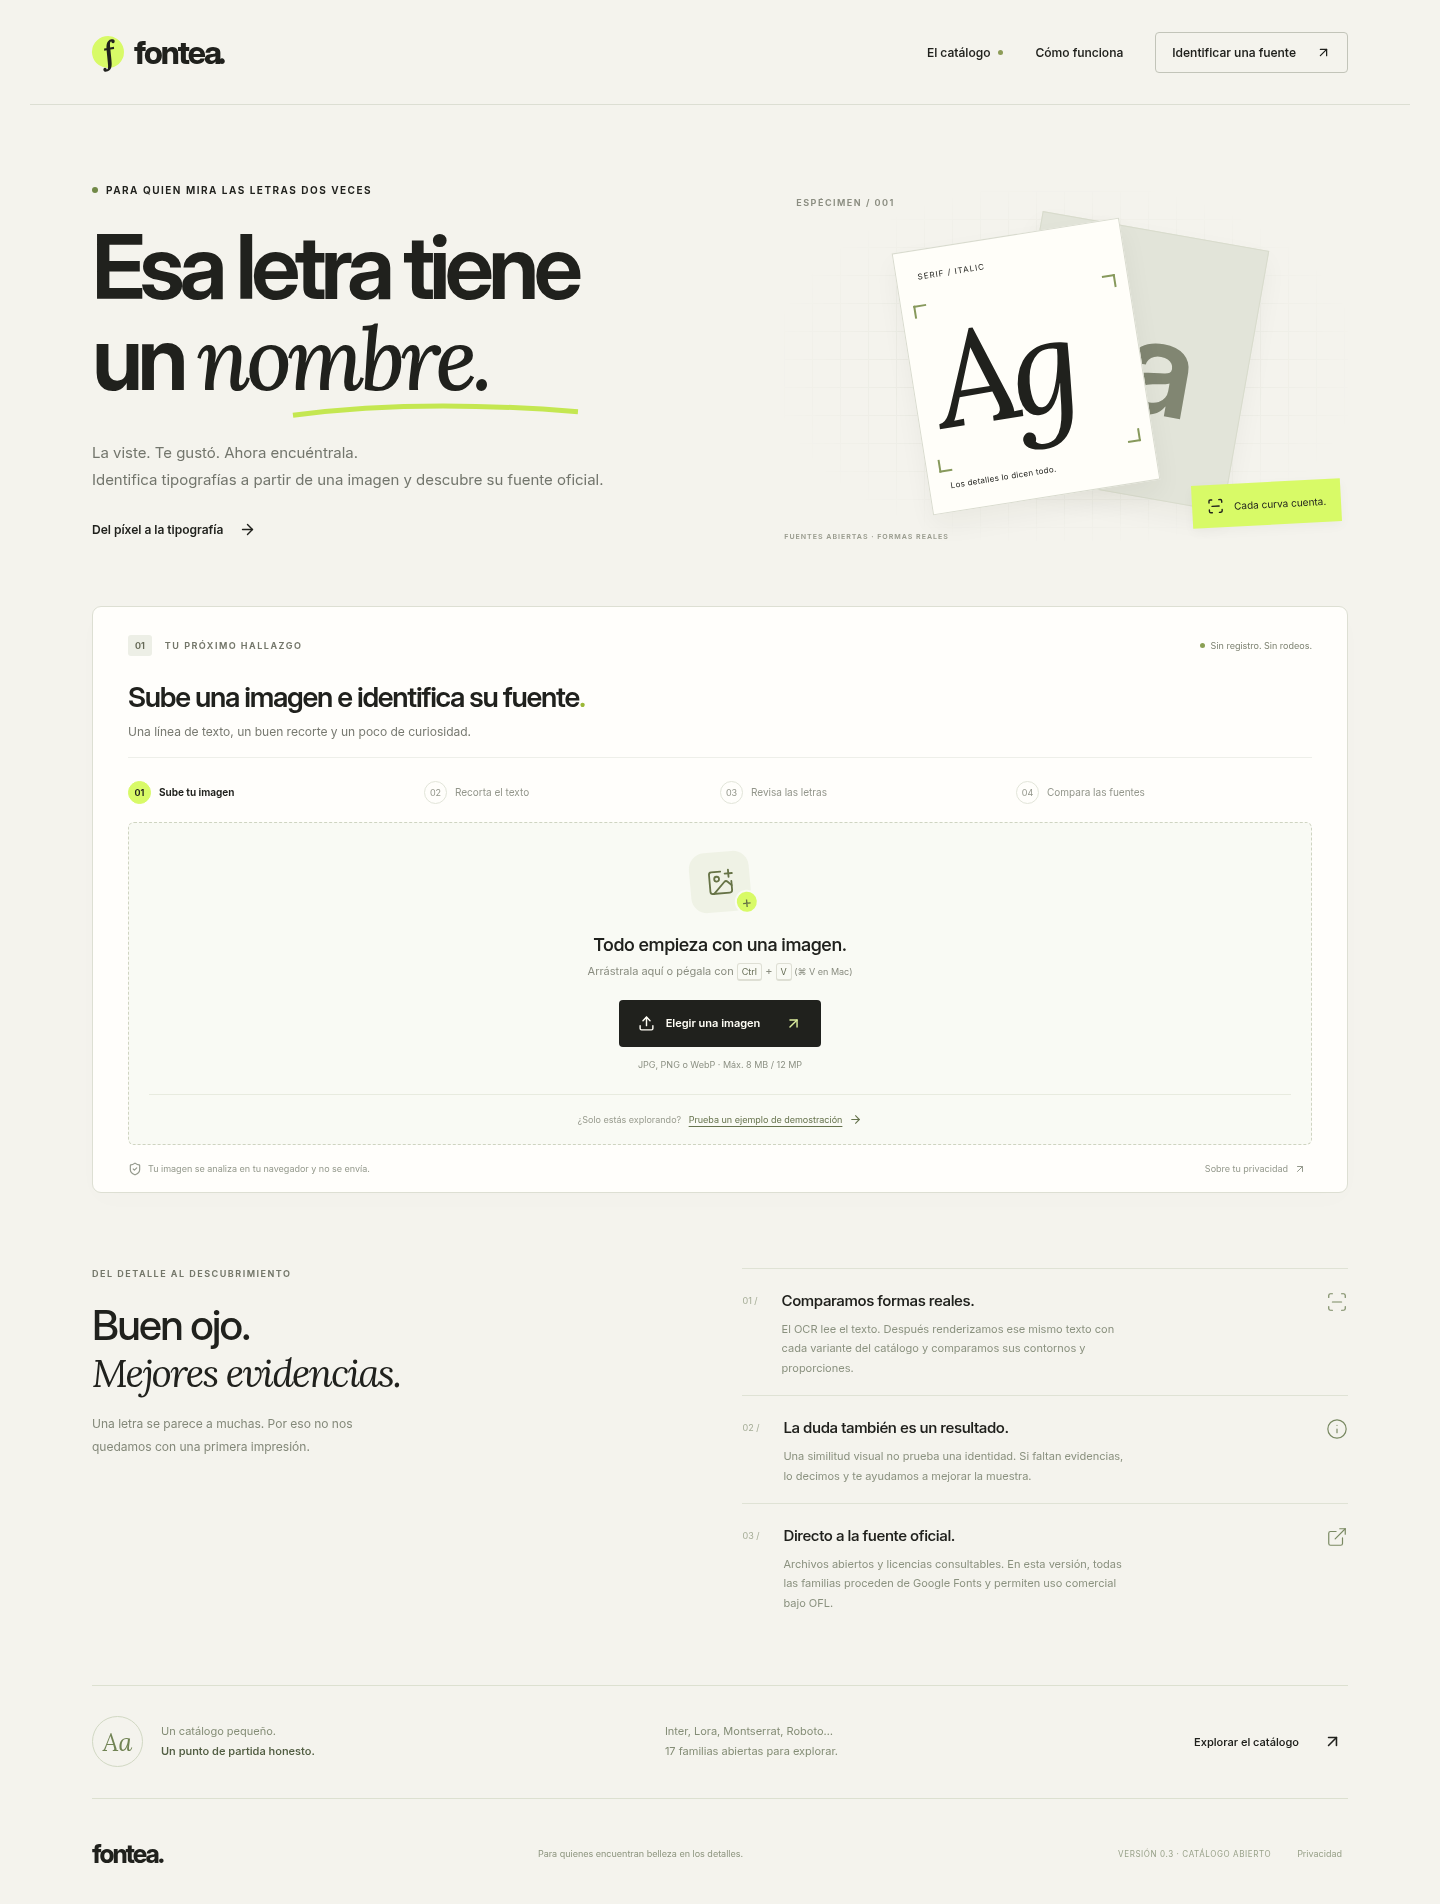
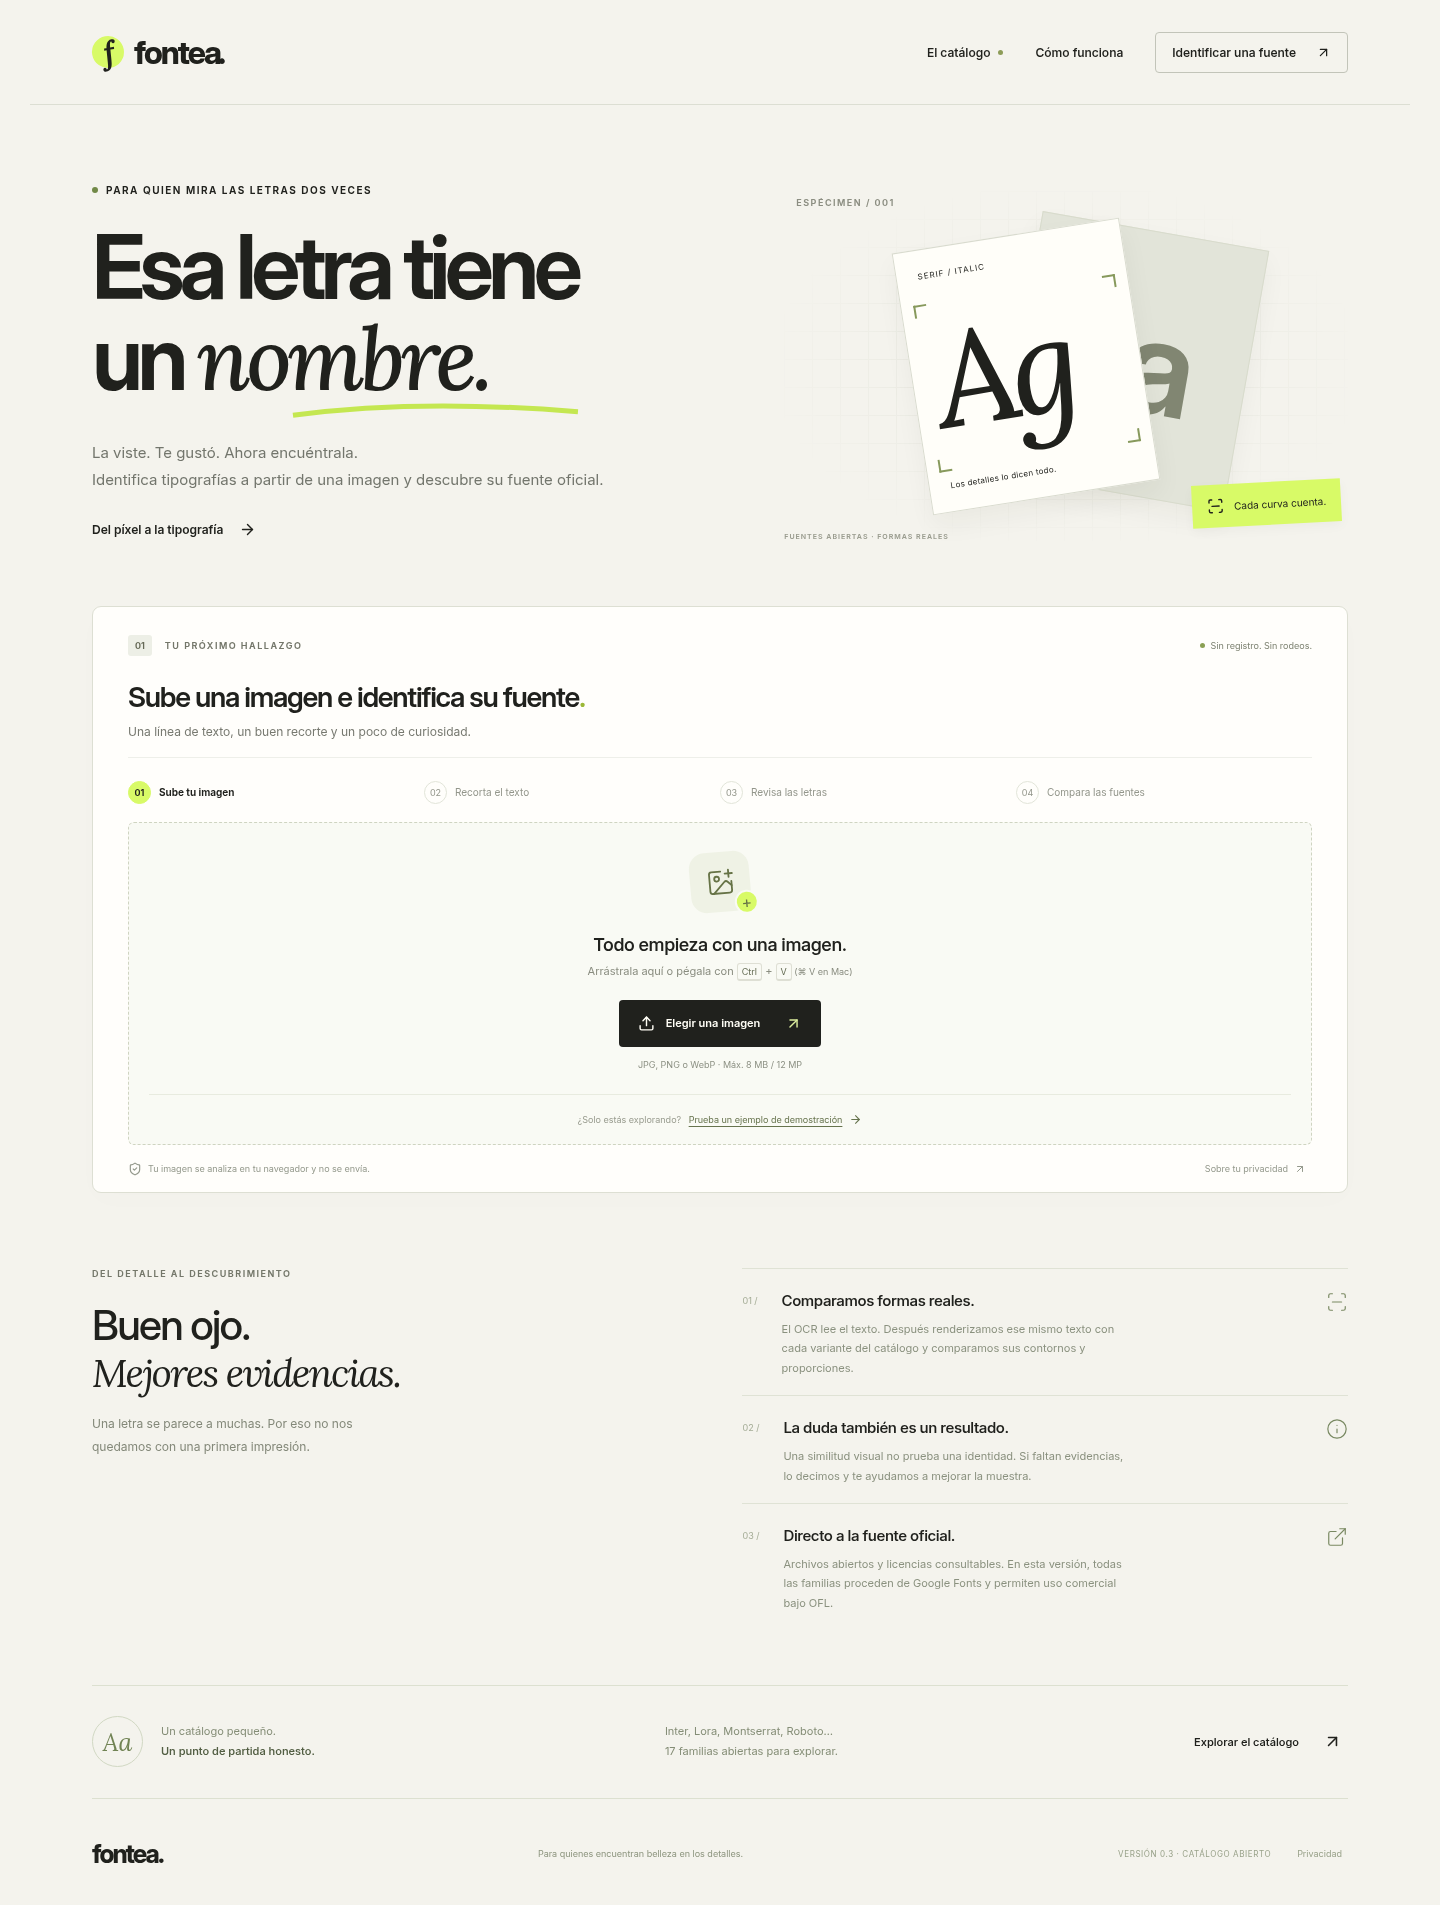
Verify hosted desktop and mobile flows and font download integrity

diff --git a/scripts/ui_smoke.py b/scripts/ui_smoke.py
@@ -101,15 +101,22 @@ with sync_playwright() as p:
     official = first.get_by_role("link", name="Fuente oficial")
     assert official.get_attribute("href") == "https://fonts.google.com/specimen/Inter"
     download = first.get_by_role("link", name="Descargar archivo de Inter")
-    response = page.request.get(
-        BASE + download.get_attribute("href"),
-        headers=(
-            {"OAI-Sites-Authorization": "Bearer " + os.environ["FONTEA_SITES_TOKEN"]}
-            if os.environ.get("FONTEA_SITES_TOKEN")
-            else {}
-        ),
+    # Browser fetch uses the same proxy, cookies and private-site routing as the UI.
+    # A separate APIRequestContext may bypass the environment proxy / select IPv6.
+    response = page.evaluate(
+        """async url => {
+      const response=await fetch(url), bytes=await response.arrayBuffer();
+      const hash=await crypto.subtle.digest('SHA-256',bytes);
+      return {status:response.status,sha256:[...new Uint8Array(hash)].map(n=>n.toString(16).padStart(2,'0')).join('')};
+    }""",
+        download.get_attribute("href"),
     )
-    assert response.status == 200
+    expected_font = next(
+        f
+        for f in json.loads((ROOT / "catalog/manifest.json").read_text())["fonts"]
+        if f["id"] == "inter-700"
+    )
+    assert response["status"] == 200 and response["sha256"] == expected_font["sha256"]
     page.locator("#results").screenshot(
         path=str(
             ROOT

diff --git a/docs/MEJORAS-0.3.md b/docs/MEJORAS-0.3.md
@@ -63,7 +63,7 @@ El benchmark crea un módulo de prueba temporal dentro de `out` para acceder al 
 
 ## Alojamiento y pendientes
 
-La vista alojada usa la compilación de navegador y acceso privado; el motor Python sigue listo para un VPS Ubuntu. El enlace y su estado real se comprueban al publicar y se comunican en la entrega, sin presentar localhost como URL accesible. El código se mantiene en la misma rama/PR, con ZIP del proyecto y bundle del historial.
+La [vista alojada](https://fontea-estudio-2026.icycalf17.chatgpt.site) está publicada y verificada con acceso privado de la cuenta propietaria: el flujo completo pasó en escritorio y móvil emulado, incluida descarga con SHA-256 correcto y recuperación tras cancelar. [Registro alojado](browser/hosted-checks.json). La primera comprobación de descarga con el cliente HTTP de pruebas falló por IPv6 sin ruta; se verificó después mediante el propio navegador, con sus cookies/proxy, sin cambiar la aplicación ni rebajar la comprobación. La vista usa la compilación de navegador; el motor Python sigue listo para un VPS Ubuntu. El enlace y su estado real se comprueban al publicar y se comunican en la entrega, sin presentar localhost como URL accesible. El código se mantiene en la misma rama/PR, con ZIP del proyecto y bundle del historial.
 
 La [guía de Ubuntu/Nginx](UBUNTU.md) clona ahora la rama que contiene la aplicación, exige comprobar un puerto libre (ejemplo 3401), usa un subdominio y servicio propios y conserva los sitios de otras aplicaciones. Incluye también la opción estática sin proceso Node/Python. Se requiere configurar tu dominio/DNS y HTTPS, instalar dependencias, compilar y aplicar la configuración elegida. No se ha publicado en tu VPS ni contratado ningún servicio.
 

diff --git a/README.md b/README.md
@@ -8,6 +8,8 @@ Carga o pegado de imagen → recorte → OCR local editable → comparación de 
 
 ![Fontea en ordenador](docs/desktop.png)
 
+**[Abrir Fontea — vista privada](https://fontea-estudio-2026.icycalf17.chatgpt.site)**. Accede con la misma cuenta de ChatGPT propietaria de esta conversación. Flujo completo comprobado sobre esa URL en Chromium, ordenador y móvil emulado. [Registro de verificación alojada](docs/browser/hosted-checks.json).
+
 ## Probar sin instalar Python
 
 La modalidad de navegador hace OCR con Tesseract.js/WASM y compara contornos con los mismos archivos tipográficos, renderizados mediante FontFace/Canvas en un Worker. **No es una demostración con resultados prefijados.** Las imágenes no se envían a ningún servidor. El catálogo, los modelos y las bibliotecas se sirven desde el mismo sitio; no requiere claves ni un CDN externo.
